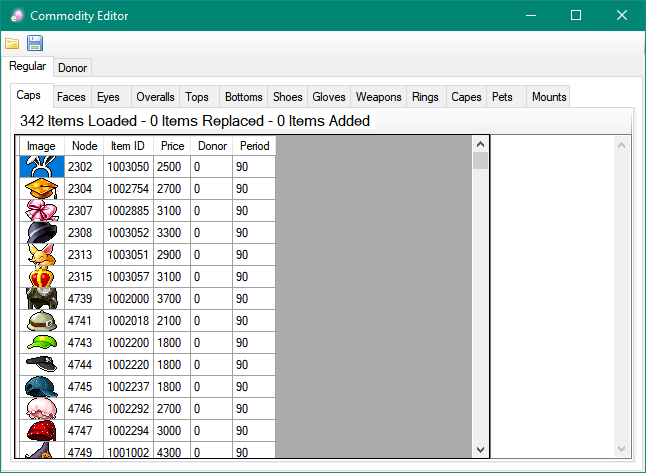
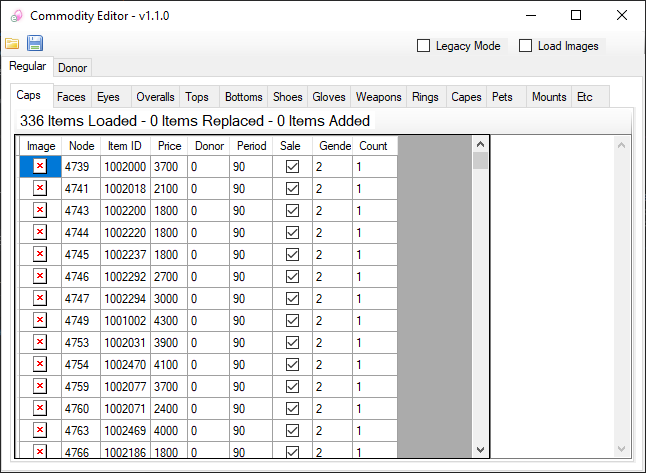
README update

diff --git a/README.md b/README.md
@@ -1,9 +1,28 @@
 # CashCommodities
-A tool for editing the in-game Cash Shop
+A tool for editing the in-game Cash Shop (Etc.wz)
 
-- Double click a Price cell to change all other Price cells to that value
-- Edit certain node values quickly (i.e: ItemID, Price, Donor, Period)
-- Organized item categories which allows updating items in large batchse
+Place the program in your MapleStory folder and click the folder icon to load your Cash Shop.
+
+- Double click on a `Price` cell to change all other Price cells to that value
+- Edit individual cell values
+- Categories for each type of equipment
 - Automatically generates unique SN for new items
 
 ![application screenshot](ss.png)
+
+# Features
+
+## Legacy Mode
+
+If your cash shop `Event` tab looks like this, enable the `Legacy Mode` checkbox to add new items to the `Event > New` tab.
+
+This should be disabled for servers that may have already updated Cash Shops with tabs for each equipment category.
+
+![legacy mode](example.png)
+
+## Load Images
+
+
+You can use the `Load Images` checkbox to view images of items in each category. This will increase load times due to having to parse files then decode images.
+
+![load images](images.png)
